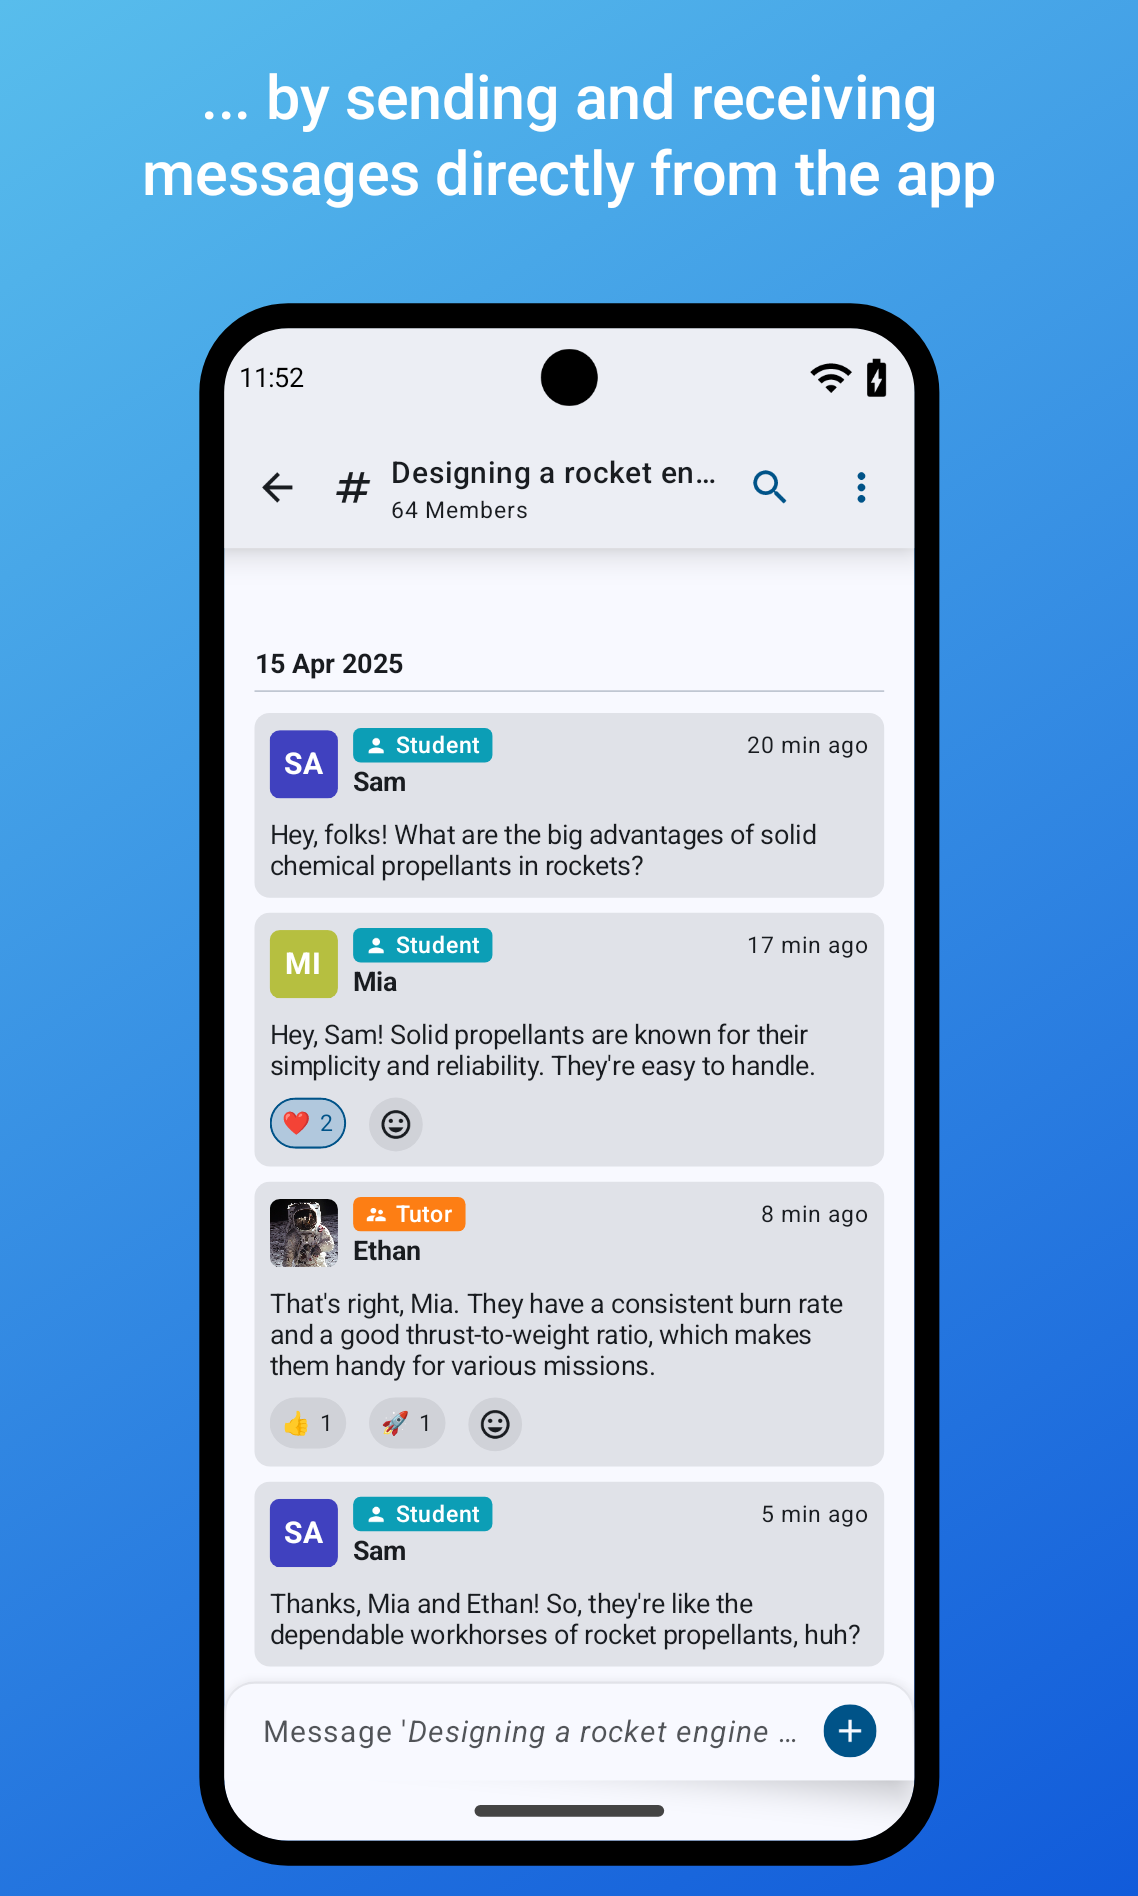
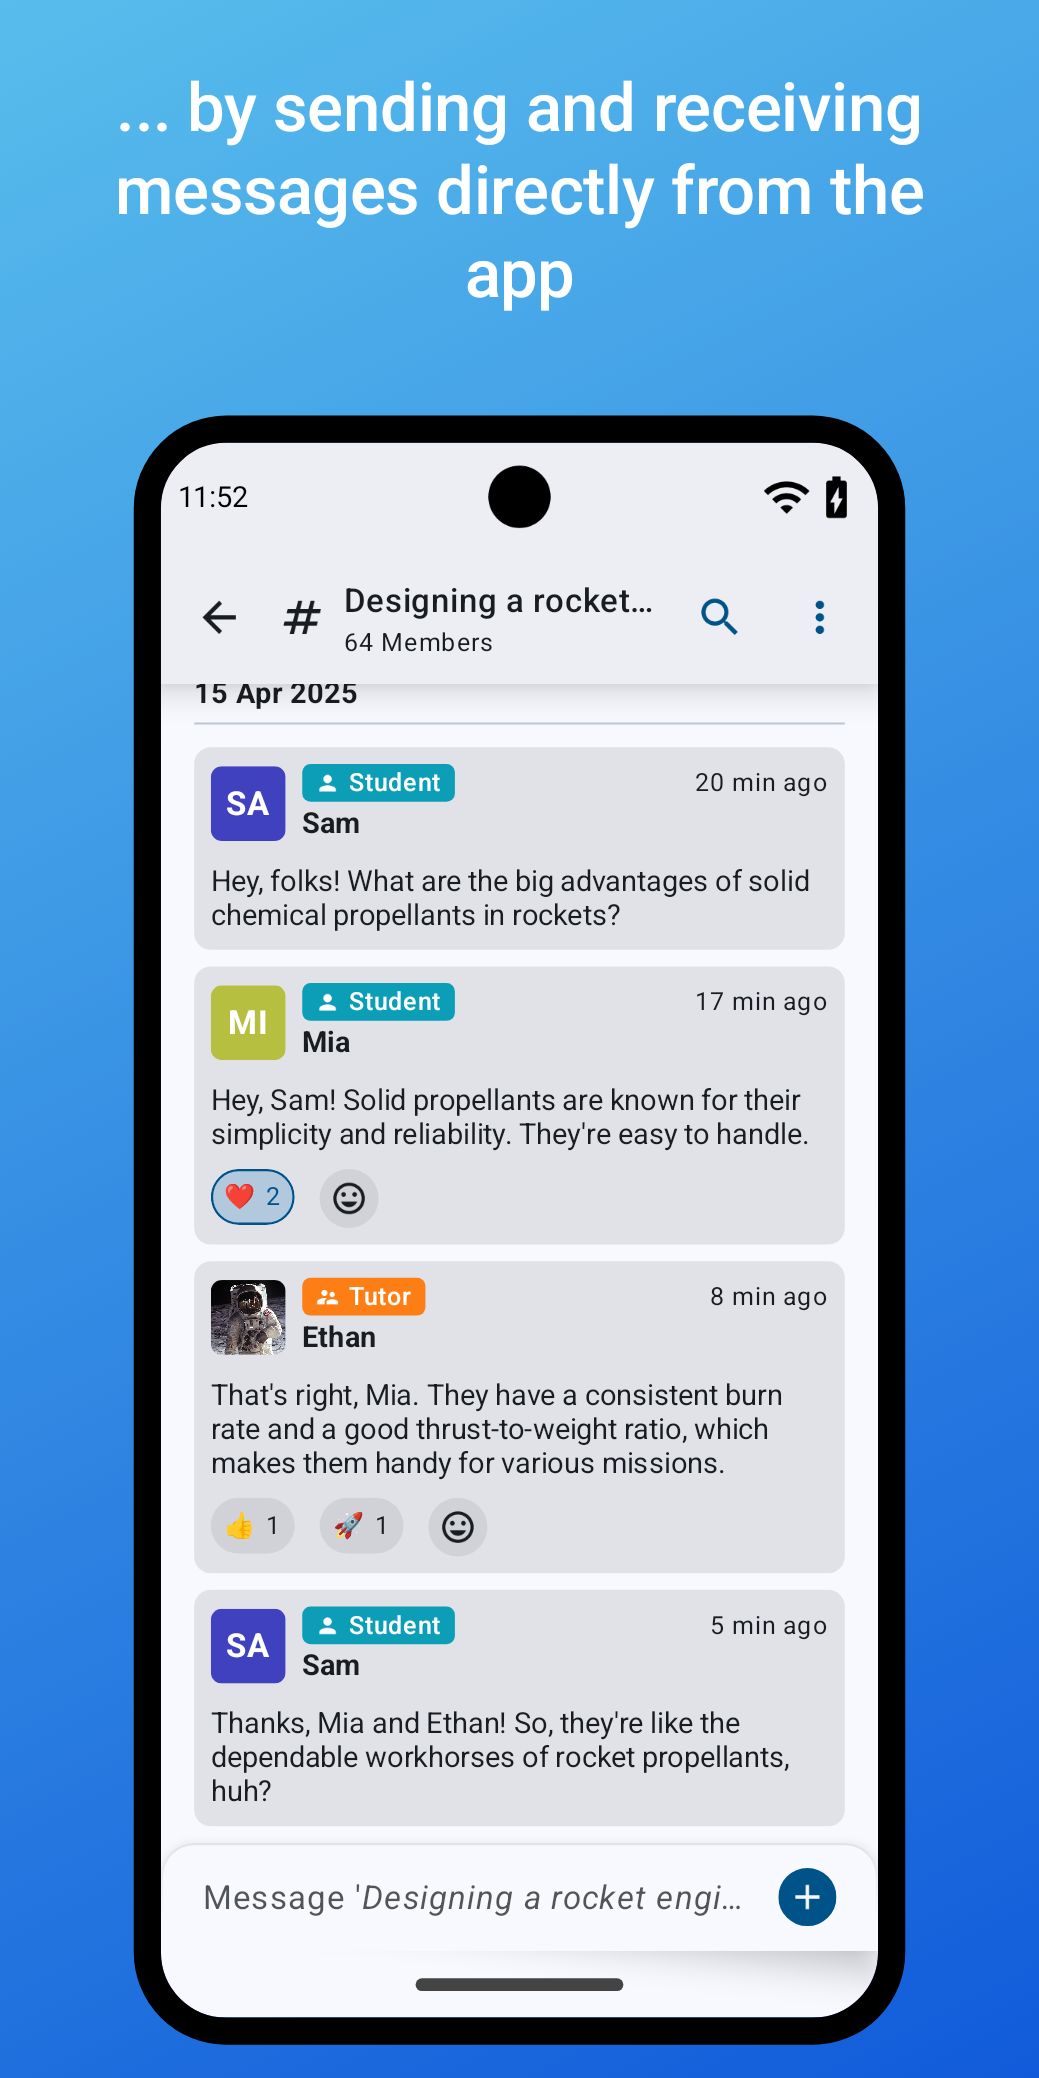
Change aspect ratios of images

Changed region(s): [[0.1232, 0.0311, 0.8932, 0.9958], [0.6776, 0.2801, 0.7084, 0.3112]]

diff --git a/core/ui/src/debug/kotlin/de/tum/informatics/www1/artemis/native_app/core/ui/PlayStoreScreenshots.kt b/core/ui/src/debug/kotlin/de/tum/informatics/www1/artemis/native_app/core/ui/PlayStoreScreenshots.kt
@@ -2,7 +2,7 @@ package de.tum.informatics.www1.artemis.native_app.core.ui
 
 import androidx.compose.ui.tooling.preview.Preview
 
-@Preview(group = "smartphone", widthDp = 600, heightDp = 1000)
+@Preview(group = "smartphone", widthDp = 500, heightDp = 1000)
 // @Preview(group = "tablet-7", device = "spec:width=801dp,height=1073dp")
 // @Preview(group = "tablet-11", device = "spec:width=1408dp,height=1032dp,dpi=320")
 annotation class PlayStoreScreenshots
